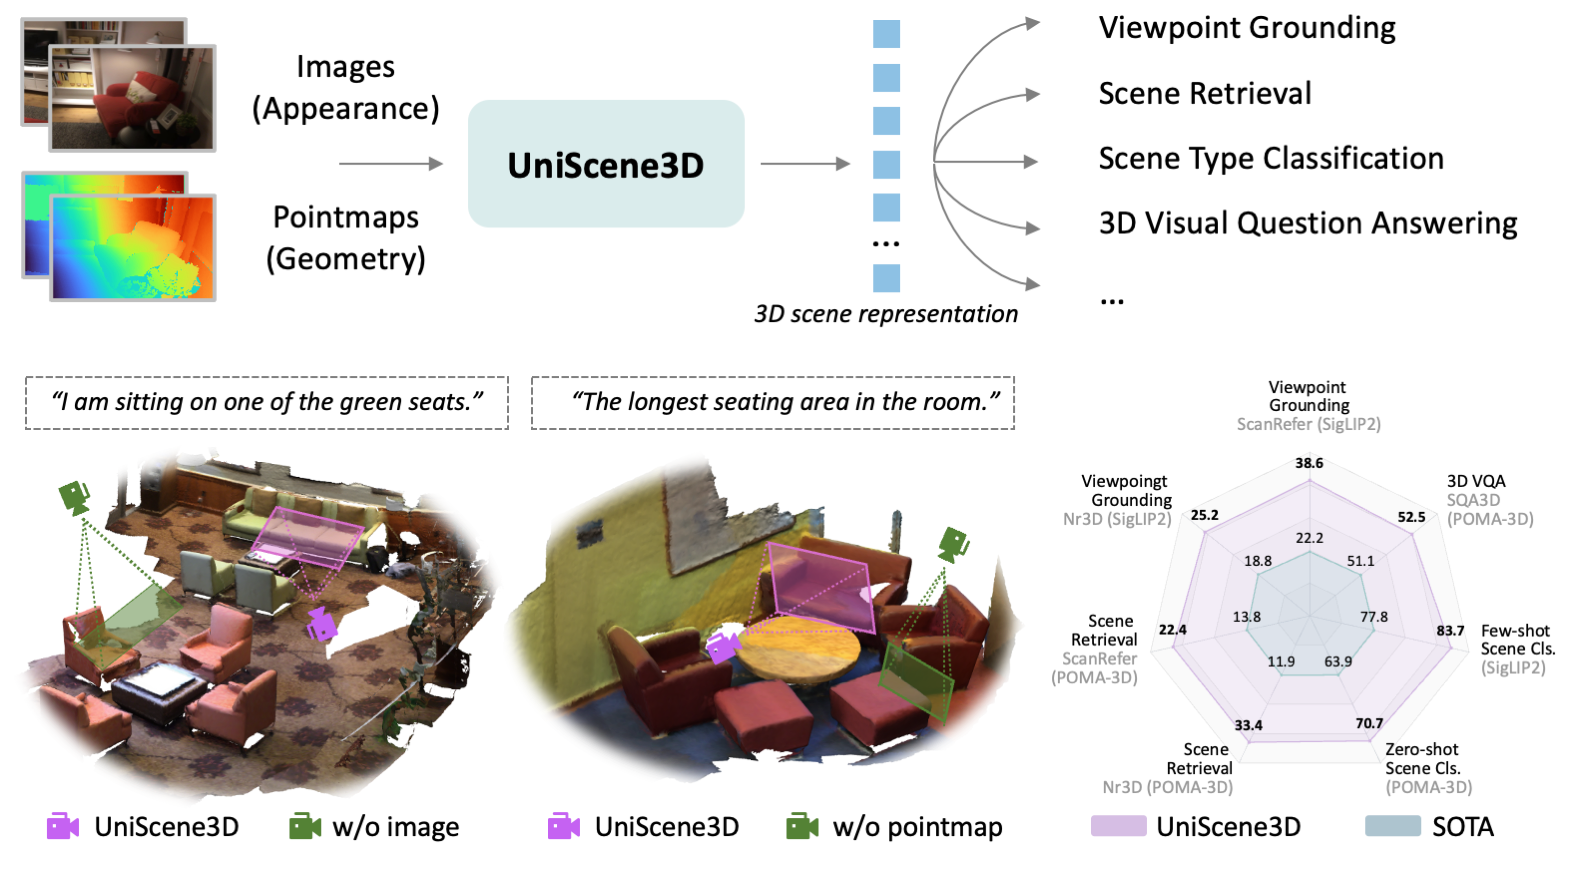
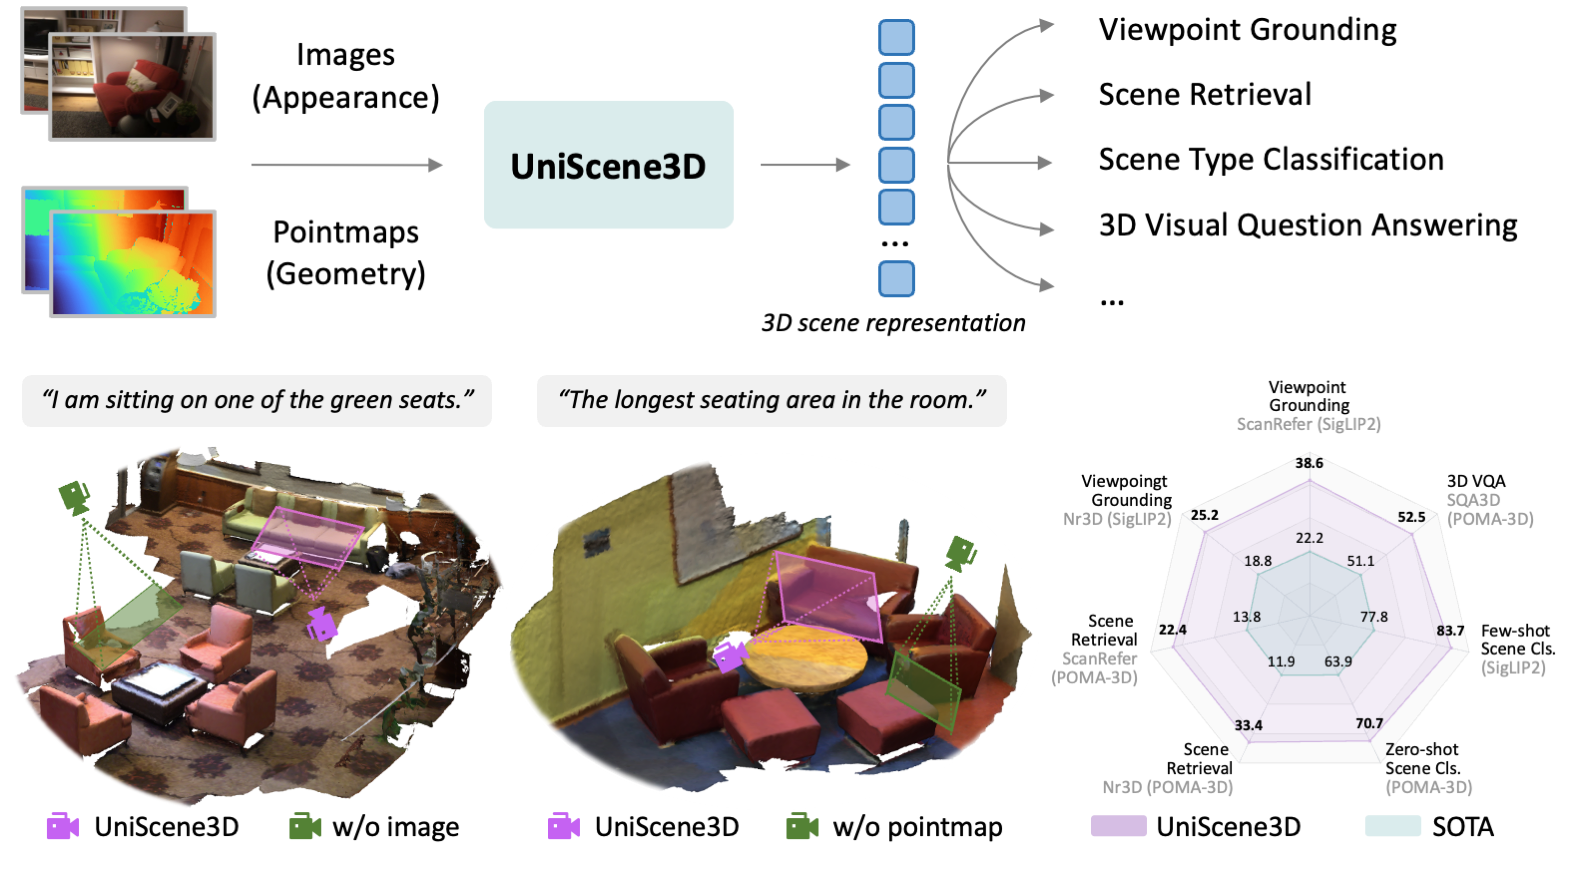
final update

diff --git a/docs/index.html b/docs/index.html
@@ -6,7 +6,7 @@
     <title>UniScene3D</title>
     <meta
       name="description"
-      content="Project page for UniScene3D: Contrastive Language-Colored Pointmap Pretraining for Unified 3D Scene Understanding."
+      content="Project page for UniScene3D: Contrastive Language-RGB-Pointmap Pretraining for Unified 3D Scene Understanding."
     >
     <link rel="icon" type="image/png" href="assets/paper_logo.png">
     <link rel="stylesheet" href="styles.css">
@@ -15,7 +15,7 @@
     <main class="page">
       <header class="hero">
         <img class="logo" src="assets/paper_logo.png" alt="UniScene3D logo">
-        <h1>Contrastive Language-Colored Pointmap Pretraining for Unified 3D Scene Understanding</h1>
+        <h1>RGB-Pointmap Pretraining for Unified 3D Scene Understanding</h1>
         <p class="authors">
           <a href="https://yebulabula.github.io/">Ye Mao</a>
           <span>&middot;</span>
@@ -86,8 +86,7 @@
           <img class="teaser-image" src="assets/figure1.png" alt="UniScene3D teaser figure">
         </div>
         <p class="caption">
-          <strong>Figure 1.</strong> UniScene3D learns transferable 3D scene representations from multi-view colored
-          pointmaps for viewpoint grounding, scene retrieval, scene type classification, and 3D visual question
+          <strong>Figure 1.</strong> UniScene3D learns transferable 3D scene representations from multi-view RGB-Pointmap for viewpoint grounding, scene retrieval, scene type classification, and 3D visual question
           answering.
         </p>
       </section>
@@ -106,14 +105,7 @@
       <section id="abstract" class="section">
         <h2>Abstract</h2>
         <p>
-          Pretraining 3D encoders by aligning with Contrastive Language-Image Pre-training (CLIP) has emerged as a
-          promising direction to learn generalizable representations for 3D scene understanding. We propose
-          UniScene3D, a transformer-based encoder that learns unified scene representations from multi-view colored
-          pointmaps, jointly modeling image appearance and geometry. For robust colored pointmap representation
-          learning, we introduce cross-view geometric alignment and grounded view alignment to enforce cross-view
-          geometry and semantic consistency. Extensive low-shot and task-specific fine-tuning evaluations on viewpoint
-          grounding, scene retrieval, scene type classification, and 3D VQA demonstrate strong performance, supporting
-          UniScene3D as a unified representation for 3D scene understanding.
+          Pretraining 3D encoders through alignment with Contrastive Language–Image Pre-training (CLIP) has emerged as a promising direction to learn generalizable representations for 3D scene understanding. In this paper, we propose UniScene3D, a transformer-based framework that learns unified 3D scene representations from multi-view RGB–Pointmap by leveraging the priors of a pretrained 2D foundation model. For robust RGB-Pointmap representation learning, we introduce novel cross-view geometric alignment and grounded view alignment to enforce geometry and semantic consistency across views. Extensive low-shot and task-specific fine-tuning across viewpoint grounding, scene retrieval, scene classification, and 3D visual question answering achieves state-of-the-art performance. These results establish UniScene3D as an effective framework for unified 3D scene understanding.
         </p>
       </section>
 
@@ -122,7 +114,7 @@
         <ul class="takeaways">
           <li><strong>Core Question:</strong> Unlike 2D vision, 3D scene understanding still lacks a generalizable encoder like CLIP, largely due to the scarcity of large-scale 3D pretraining data. This raises the question: <strong>can a 2D vision encoder be extended into a general 3D scene encoder without extensive 3D pretraining?</strong></li>
           <li><strong>Preliminary Finding:</strong> Pointmaps encode world-frame geometry like point clouds while preserving an image-like format compatible with 2D vision models. Our initial study shows that pretrained 2D vision weights are also beneficial for learning pointmap features.</li>
-          <li><strong>Model Contribution:</strong> UniScene3D extends pretrained CLIP models to learn unified 3D scene representations from pixel-aligned, multi-view colored pointmaps by jointly encoding geometry and appearance.</li>
+          <li><strong>Model Contribution:</strong> UniScene3D extends pretrained CLIP models to learn unified 3D scene representations from pixel-aligned, multi-view RGB-Pointmaps by jointly encoding geometry and appearance.</li>
           <li><strong>Key Training Idea:</strong> We introduce cross-view geometric alignment and grounded view alignment to enforce geometric and semantic consistency across viewpoints.</li>
           <li><strong>Result:</strong> The learned representations effectively combine complementary information from images and pointmaps, generalize across diverse scenes, and transfer well to a broad range of downstream 3D tasks.</li>
         </ul>
@@ -315,7 +307,7 @@
         <h2>Main Findings</h2>
         <div class="finding-grid">
           <article class="finding-card"><p>UniScene3D transfers well across zero-shot, few-shot, and task-specific fine-tuning settings.</p></article>
-          <article class="finding-card"><p>Colored pointmaps outperform image-only, pointmap-only, and RGB-D alternatives.</p></article>
+          <article class="finding-card"><p>RGB-Pointmaps outperform image-only, pointmap-only, and RGB-D alternatives.</p></article>
           <article class="finding-card"><p>The proposed alignment objectives consistently improve representation quality.</p></article>
           <article class="finding-card"><p>Performance remains strong across different numbers of input views.</p></article>
           <article class="finding-card"><p>Scaling to more pretraining scenes steadily improves downstream results.</p></article>
@@ -327,7 +319,7 @@
         <h2>Conclusion</h2>
         <p>
           UniScene3D is a 3D representation learning method that jointly models geometry and appearance from multi-view
-          colored pointmaps. By leveraging rich cross-view context, it introduces cross-view geometric alignment and
+          RGB-Pointmaps. By leveraging rich cross-view context, it introduces cross-view geometric alignment and
           grounded view alignment objectives for pretraining.
         </p>
         <p>
@@ -340,7 +332,7 @@
       <section id="citation" class="section">
         <h2>Citation</h2>
         <pre><code>@inproceedings{mao2026uniscene3d,
-  title     = {Contrastive Language-Colored Pointmap Pretraining for Unified 3D Scene Understanding},
+  title     = {Contrastive Language-RGB-Pointmap Pretraining for Unified 3D Scene Understanding},
   author    = {Mao, Ye and Luo, Weixun and Huang, Ranran and Jing, Junpeng and Mikolajczyk, Krystian},
   booktitle = {arXiv},
   year      = {2026}

diff --git a/main.py b/main.py
@@ -1,0 +1,217 @@
+"""Standalone transformer training example."""
+
+import math
+from dataclasses import dataclass
+
+import torch
+import torch.nn as nn
+from torch.utils.data import DataLoader, Dataset
+
+
+@dataclass
+class TrainingConfig:
+    vocab_size: int = 1000
+    seq_len: int = 32
+    num_classes: int = 10
+    train_samples: int = 512
+    val_samples: int = 128
+    batch_size: int = 32
+    epochs: int = 5
+    learning_rate: float = 1e-3
+    d_model: int = 128
+    num_heads: int = 4
+    num_layers: int = 2
+    dim_feedforward: int = 256
+    dropout: float = 0.1
+
+
+class ToyTextDataset(Dataset):
+    """Synthetic dataset for sequence classification."""
+
+    def __init__(
+        self,
+        num_samples: int,
+        seq_len: int,
+        vocab_size: int,
+        num_classes: int,
+    ):
+        super().__init__()
+        self.input_ids = torch.randint(0, vocab_size, (num_samples, seq_len))
+        # Use a deterministic label rule so the model has a pattern to learn.
+        self.labels = (self.input_ids.sum(dim=1) % num_classes).long()
+
+    def __len__(self) -> int:
+        return self.input_ids.size(0)
+
+    def __getitem__(self, index: int) -> tuple[torch.Tensor, torch.Tensor]:
+        return self.input_ids[index], self.labels[index]
+
+
+class PositionalEncoding(nn.Module):
+    """Sinusoidal positional encoding for token sequences."""
+
+    def __init__(self, d_model: int, max_len: int = 512):
+        super().__init__()
+        position = torch.arange(max_len).unsqueeze(1)
+        div_term = torch.exp(
+            torch.arange(0, d_model, 2) * (-math.log(10000.0) / d_model)
+        )
+
+        pe = torch.zeros(max_len, d_model)
+        pe[:, 0::2] = torch.sin(position * div_term)
+        pe[:, 1::2] = torch.cos(position * div_term)
+        self.register_buffer("pe", pe.unsqueeze(0))
+
+    def forward(self, x: torch.Tensor) -> torch.Tensor:
+        return x + self.pe[:, : x.size(1)]
+
+
+class SimpleTransformerModel(nn.Module):
+    """A small transformer encoder for sequence classification."""
+
+    def __init__(
+        self,
+        vocab_size: int = 1000,
+        d_model: int = 128,
+        num_heads: int = 4,
+        num_layers: int = 2,
+        dim_feedforward: int = 256,
+        num_classes: int = 10,
+        max_len: int = 128,
+        dropout: float = 0.1,
+    ):
+        super().__init__()
+        self.embedding = nn.Embedding(vocab_size, d_model)
+        self.position = PositionalEncoding(d_model=d_model, max_len=max_len)
+
+        encoder_layer = nn.TransformerEncoderLayer(
+            d_model=d_model,
+            nhead=num_heads,
+            dim_feedforward=dim_feedforward,
+            dropout=dropout,
+            batch_first=True,
+            activation="gelu",
+        )
+        self.encoder = nn.TransformerEncoder(encoder_layer, num_layers=num_layers)
+        self.norm = nn.LayerNorm(d_model)
+        self.head = nn.Linear(d_model, num_classes)
+
+    def forward(self, input_ids: torch.Tensor) -> torch.Tensor:
+        x = self.embedding(input_ids) * math.sqrt(self.embedding.embedding_dim)
+        x = self.position(x)
+        x = self.encoder(x)
+        x = self.norm(x[:, 0])
+        return self.head(x)
+
+
+def evaluate(
+    model: nn.Module,
+    data_loader: DataLoader,
+    criterion: nn.Module,
+    device: torch.device,
+) -> tuple[float, float]:
+    """Run a validation pass and return loss and accuracy."""
+    model.eval()
+    total_loss = 0.0
+    total_correct = 0
+    total_examples = 0
+
+    with torch.no_grad():
+        for input_ids, labels in data_loader:
+            input_ids = input_ids.to(device)
+            labels = labels.to(device)
+
+            logits = model(input_ids)
+            loss = criterion(logits, labels)
+
+            total_loss += loss.item() * labels.size(0)
+            total_correct += (logits.argmax(dim=1) == labels).sum().item()
+            total_examples += labels.size(0)
+
+    return total_loss / total_examples, total_correct / total_examples
+
+
+def train_model(config: TrainingConfig) -> None:
+    """Train the transformer on a synthetic classification task."""
+    device = torch.device("cuda" if torch.cuda.is_available() else "cpu")
+    torch.manual_seed(42)
+
+    train_dataset = ToyTextDataset(
+        num_samples=config.train_samples,
+        seq_len=config.seq_len,
+        vocab_size=config.vocab_size,
+        num_classes=config.num_classes,
+    )
+    val_dataset = ToyTextDataset(
+        num_samples=config.val_samples,
+        seq_len=config.seq_len,
+        vocab_size=config.vocab_size,
+        num_classes=config.num_classes,
+    )
+
+    train_loader = DataLoader(
+        train_dataset,
+        batch_size=config.batch_size,
+        shuffle=True,
+    )
+    val_loader = DataLoader(
+        val_dataset,
+        batch_size=config.batch_size,
+        shuffle=False,
+    )
+
+    model = SimpleTransformerModel(
+        vocab_size=config.vocab_size,
+        d_model=config.d_model,
+        num_heads=config.num_heads,
+        num_layers=config.num_layers,
+        dim_feedforward=config.dim_feedforward,
+        num_classes=config.num_classes,
+        max_len=config.seq_len,
+        dropout=config.dropout,
+    ).to(device)
+
+    criterion = nn.CrossEntropyLoss()
+    optimizer = torch.optim.Adam(model.parameters(), lr=config.learning_rate)
+
+    print(f"Training on device: {device}")
+    print(f"Train samples: {len(train_dataset)}, Val samples: {len(val_dataset)}")
+
+    for epoch in range(config.epochs):
+        model.train()
+        running_loss = 0.0
+        running_correct = 0
+        seen_examples = 0
+
+        for input_ids, labels in train_loader:
+            input_ids = input_ids.to(device)
+            labels = labels.to(device)
+
+            optimizer.zero_grad()
+            logits = model(input_ids)
+            loss = criterion(logits, labels)
+            loss.backward()
+            optimizer.step()
+
+            running_loss += loss.item() * labels.size(0)
+            running_correct += (logits.argmax(dim=1) == labels).sum().item()
+            seen_examples += labels.size(0)
+
+        train_loss = running_loss / seen_examples
+        train_acc = running_correct / seen_examples
+        val_loss, val_acc = evaluate(model, val_loader, criterion, device)
+
+        print(
+            f"Epoch {epoch + 1}/{config.epochs} | "
+            f"train_loss={train_loss:.4f} train_acc={train_acc:.4f} | "
+            f"val_loss={val_loss:.4f} val_acc={val_acc:.4f}"
+        )
+
+
+def main() -> None:
+    config = TrainingConfig()
+    train_model(config)
+
+
+if __name__ == "__main__":
+    main()
